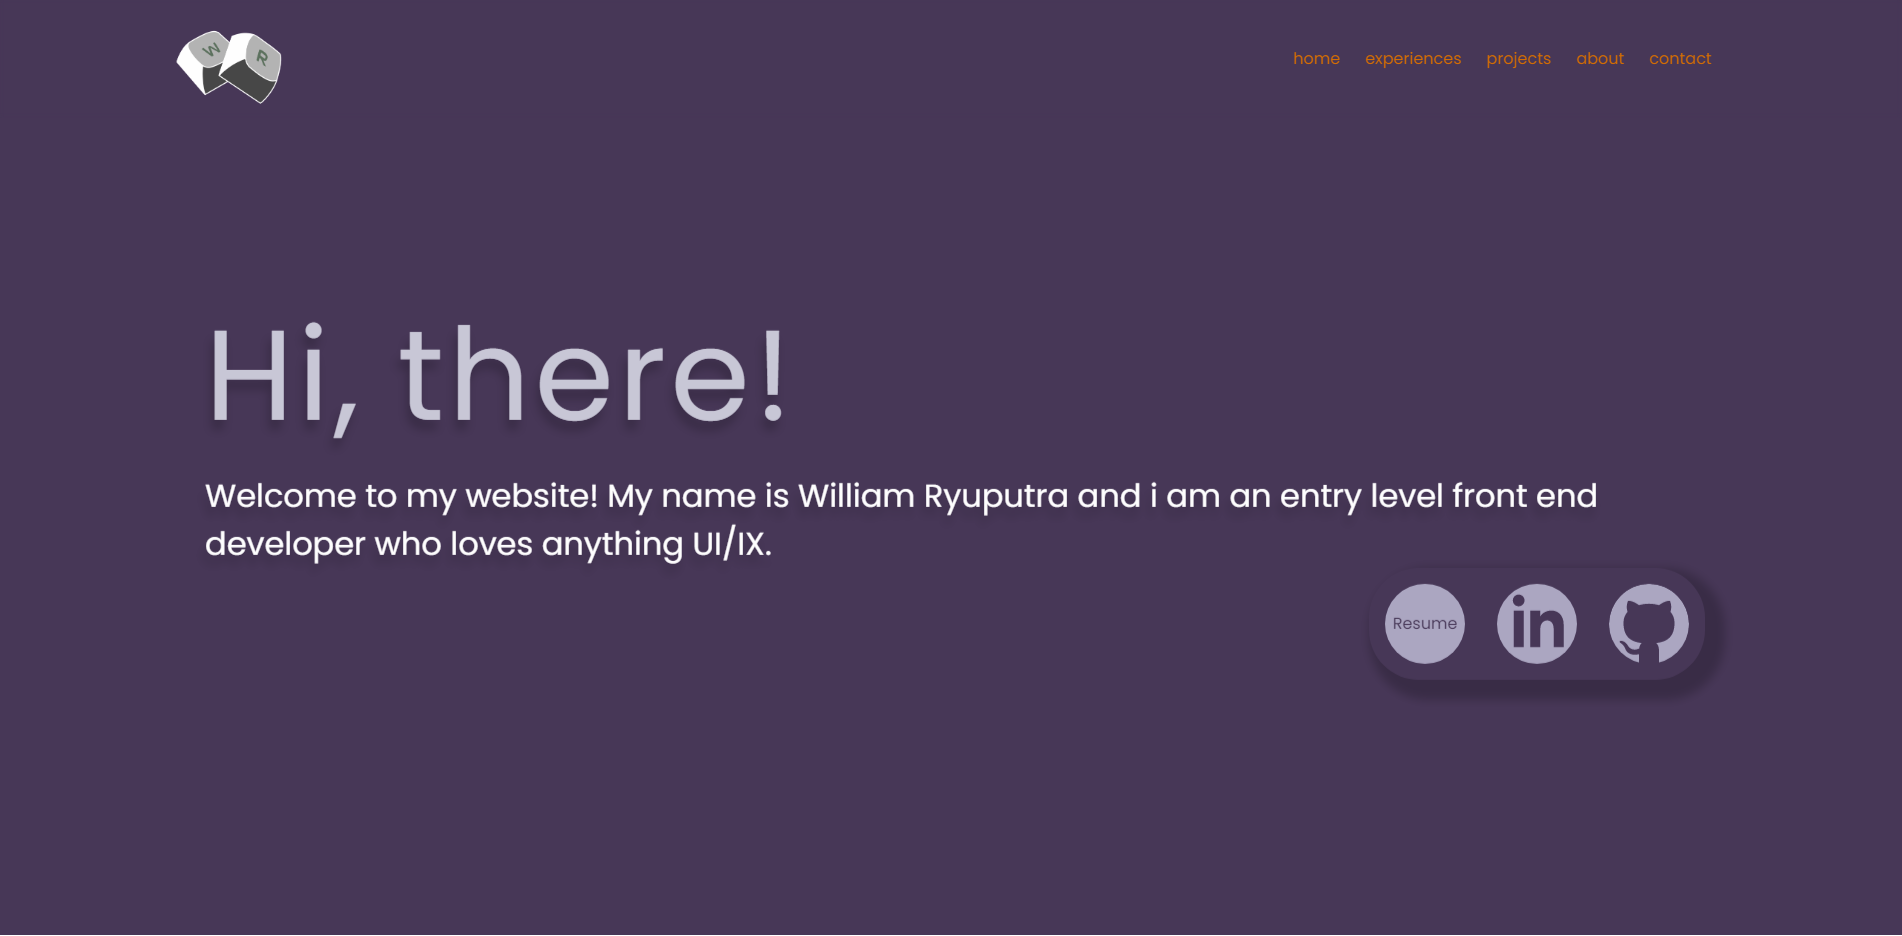
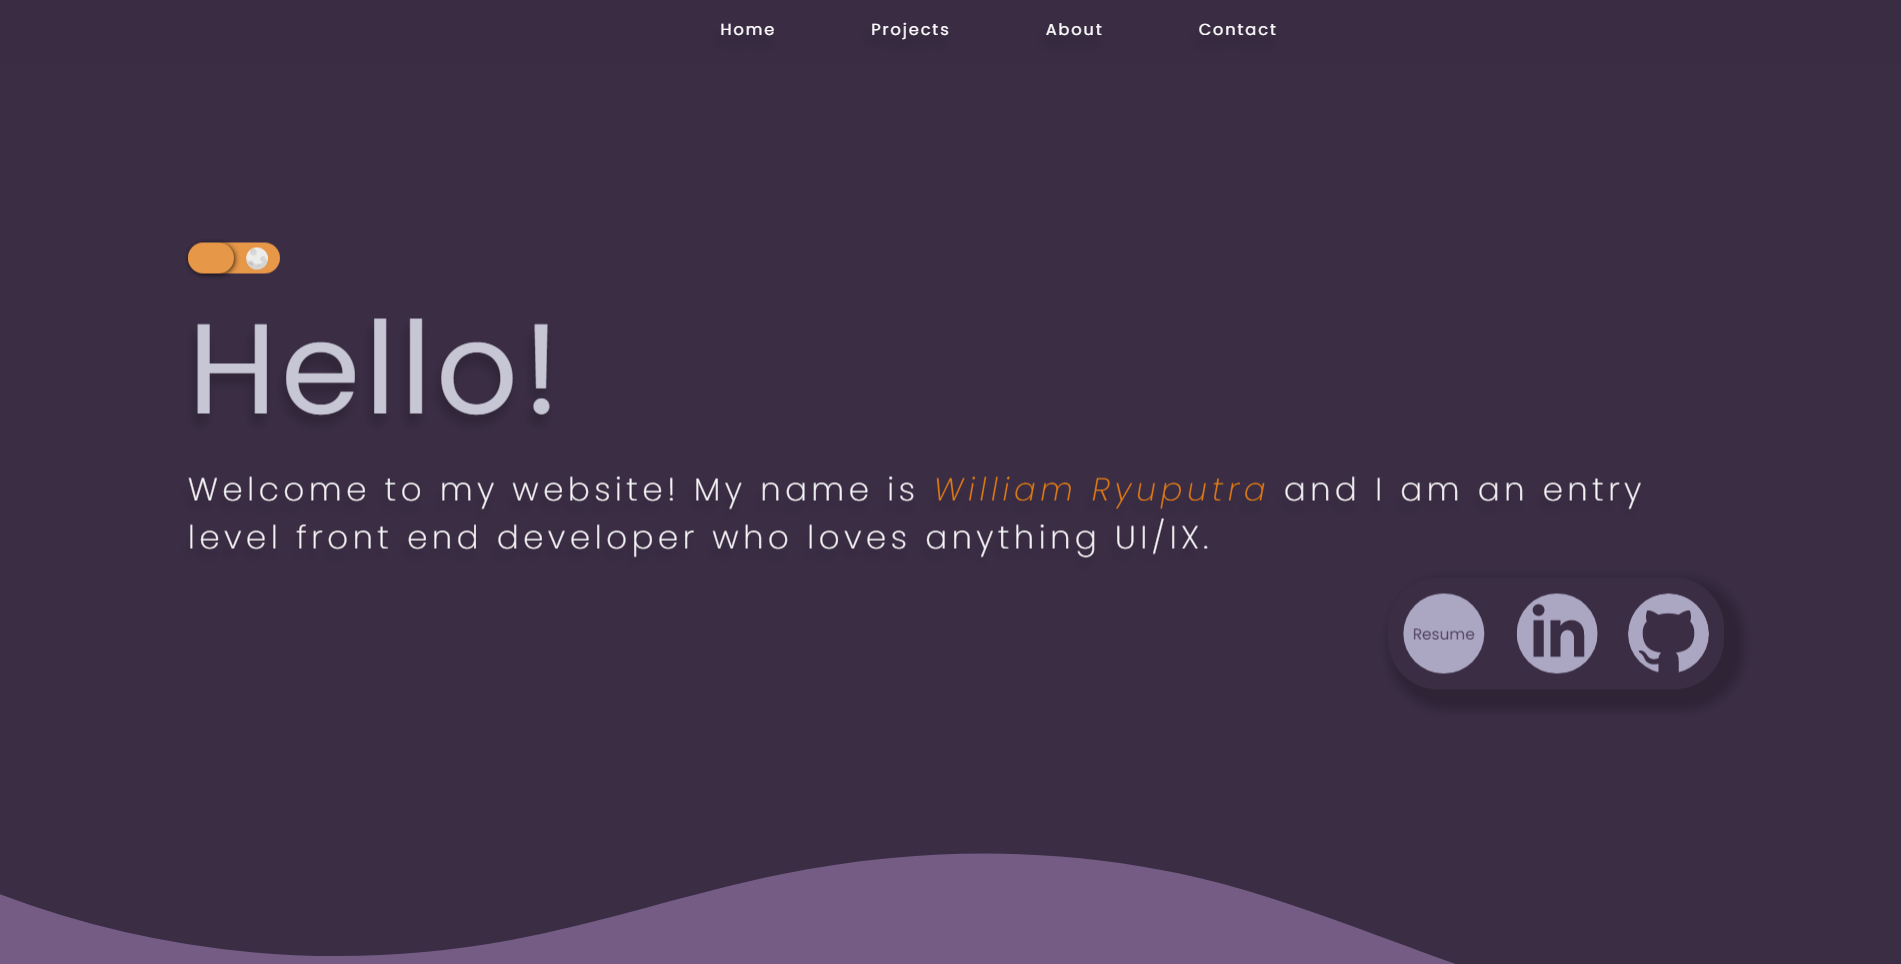
Modifies light mode on smaller devices

diff --git a/resources/styles.css b/resources/styles.css
@@ -62,27 +62,35 @@ body{
 }
 
 /* Light dark mode switch */
-.toggle,#circle{
+.toggle, #circle{
     border-radius: 50px;
 }
+
 .toggle{
+    /* border: 1px solid white; */
+    opacity: 0;
+    animation-delay:3s ;
     position: relative;
     display: flex;
-    justify-content: space-around;
     align-items: center;
-    border: px solid black;
-    width: 5vw;
-    height: 5vh;
+    justify-content: space-around;
+    width: 6%;
+    height: 4%;
     background-color:#e79849;
     transition: all .1s linear;
 }
+
+/* Sun and moon icons */
 .mode{
     /* border: 1px solid black; */
-    height: 50%;
+    height: 70%;
+   
 }
 
+/* Circle for toggle */
 #circle{
     /* border:1px solid yellow; */
+    cursor: pointer;
     background-color:#e79849;
     position:absolute;
     left: 0;
@@ -91,8 +99,6 @@ body{
     box-shadow: 1px 1px 5px 0px rgba(0,0,0,0.75);
     transition: all .1s linear;
 }
-
-
 
 /* navbar */
 .navbar{
@@ -153,8 +159,8 @@ body{
 }
 
 /* Animation for 'Hello!', description and navigation bar */
-.hello > span, .desc,.navbar{
-  opacity: 1;
+.hello > span, .desc,.navbar,.toggle{
+  opacity: 0;
   -webkit-animation-name:appears ;
   -moz-animation-name: appears;
   -o-animation-name: appears;
@@ -539,7 +545,7 @@ body{
     width: 13vw;
     background-size: cover;
     background-position:center;
-    background-image: url('https://media-exp1.licdn.com/dms/image/C4D03AQEGhZW3N92fWA/profile-displayphoto-shrink_800_800/0/1572886160038?e=2147483647&v=beta&t=hKWeq0Urjn1A7Tnz44uDimXzhWl3-bEM_tfqtEsQR0o');
+    background-image: url('../resources/images/selfie.jfif');
 }
   
 /* Container for music and skills */
@@ -807,7 +813,7 @@ button:active{
 /* footer */
 .footer{
     width: 100vw;
-    height: 8vh;
+    height: 10vh;
     background-color: rgb(57, 38, 73);
     display: flex;
     align-items: center;
@@ -1020,12 +1026,19 @@ button:active{
     }
 
     /* Home Page */
+    /* Toggle */
+    .toggle{
+        width: 15vw;
+        height: 7vw;    
+    }
+
     .home{
         /* border: 5px solid black; */
         justify-content: flex-end;
     }
 
     .intro{
+        /* border: 1px solid white; */
         height: 50vh;
         width: 75vw;
     }
@@ -1093,10 +1106,10 @@ button:active{
         position: absolute;
         right: 10%;
         top: -15%;
-        width: 60%;
-        height: 50%;
+        width: 40vw;
+        height: 25vh;
         box-shadow: 12px -10px 0px 0px rgba(235,128,21,1);
-        background-image: url('https://media-exp1.licdn.com/dms/image/C4D03AQEGhZW3N92fWA/profile-displayphoto-shrink_800_800/0/1572886160038?e=2147483647&v=beta&t=hKWeq0Urjn1A7Tnz44uDimXzhWl3-bEM_tfqtEsQR0o');
+        background-image: url('../resources/images/selfie.jfif');
         background-size: cover;
         background-position:center;
     }
@@ -1314,6 +1327,10 @@ button:active{
 
 /* Mobile Landscape */
 @media screen and (max-width:900px)  and (orientation:landscape){
+    .toggle{
+        width: 7vw;
+        height: 4vw;
+    }
     .prev, .next{
         display: none;
     }
@@ -1385,8 +1402,7 @@ button:active{
     }
 }
 
-/* New classes for later use */
-/* Bright mode */
+/* New classes for light mode */
 .white-background{
     background: white;
     transition: all .2s linear;
@@ -1396,34 +1412,35 @@ button:active{
     background-color: white;
 }
 
-span.name-color-change, .desc-mobile .name-color-change{
+span.name-light, .desc-mobile .name-light{
     color:#403f41;
     font-weight: 600;
 }
 
-.toggle-color-change{
+.toggle-light{
     background-color: #403f41;
 }
+
 #circle.toggle-right{
     transform: translateX(100%);
     background-color: black;
     transition: all .1s linear;
 }
-.colorchange, span.colorchange,svg.colorchange,.navbar > .colorchange{
+.font-light, span.font-light,svg.font-light,.navbar > .font-light{
     color:black;
 }
 
-.resume-color-change{
+.resume-light{
     background-color: black;
     color: white;
 }
 
 /* Project light mode */
-#projects.project-background-change, .about-black{
+#projects.projects-light, .contact-light{
     background-color: black;
 }
 
-.divider-one-black .shape-fill, .divider-two-black .shape-fill{
+.divider-one-light .shape-fill, .divider-two-light .shape-fill{
     fill:black;
 }
 
@@ -1432,7 +1449,7 @@ span.name-color-change, .desc-mobile .name-color-change{
 }
 
 /* About light mode */
-.about-gray{
+.about-light{
     background-color: #403f41;
     border-color: #403f41;
 }
@@ -1459,10 +1476,11 @@ span.name-color-change, .desc-mobile .name-color-change{
 }
 
 /* Mobile light */
-.intro-black{
+.intro-light{
     color: black;
 }
 
 .mobile-img-container-light{
     box-shadow: 12px -10px 0px 0px black;
 }
+

diff --git a/script.js b/script.js
@@ -28,7 +28,7 @@ function currentSlide(){
     slides[index].style.display = 'flex';
 }
 
-// Only calls function when its bigger than mobile
+// This function displays interactive slides, only for ipad portrait mode and desktop screens
     if(window.innerWidth > 850  || (window.innerWidth > 800 && window.innerHeight > window.innerWidth)){
         currentSlide();
     }
@@ -45,6 +45,7 @@ let description = document.getElementsByClassName("desc");
 let resume = document.getElementsByClassName("resume");
 let navigation = document.querySelectorAll(".navbar > a");
 let navigationBar = document.querySelector(".navbar");
+
 // Project
 let projectPage = document.getElementById("projects");
 let firstDivider = document.querySelector(".divider-one svg");
@@ -73,52 +74,51 @@ let introText = document.querySelectorAll(".desc-mobile > p");
 let nameSpan = document.querySelector(".desc-mobile span");
 let portraitShadow = document.querySelector(".mobile-pic-container");
 let textBoxes = document.querySelectorAll(".text-box");
+
+// Using classlist to toggle between classes
 ball.addEventListener("click", function(){
     // Moving ball to the right and changes color between modes
     ball.classList.toggle("toggle-right");
-    newToggle[0].classList.toggle("toggle-color-change");
+    newToggle[0].classList.toggle("toggle-light");
 
     // Home page
     background.classList.toggle("white-background");
-    description[0].classList.toggle("colorchange");
-    resume[0].classList.toggle("resume-color-change");
-    fullName.classList.toggle("name-color-change");
+    description[0].classList.toggle("font-light");
+    resume[0].classList.toggle("resume-light");
+    fullName.classList.toggle("name-light");
     navigationBar.classList.toggle("navigation-bar-light");
-   
+    // Changing "hello" spans color
     for(let i = 0; i<letter.length ; i++){
-        letter[i].classList.toggle("colorchange");
-        // console.log(letter[i]);
+        letter[i].classList.toggle("font-light");
     }
-
+    // Changing socials' svgs color
     for(let i = 0; i<social.length ; i++){
-        social[i].classList.toggle("colorchange");
-        // console.log(social[i]);
+        social[i].classList.toggle("font-light");
     }
-
+    // Changing navigation bar's color
     for(let i = 0; i<navigation.length ; i++){
-        navigation[i].classList.toggle("colorchange");
-        // console.log(social[i]);
+        navigation[i].classList.toggle("font-light");
     }
 
     // Projects page
-    projectPage.classList.toggle("project-background-change");
-    firstDivider.classList.toggle("divider-one-black");
-    secondDivider.classList.toggle("divider-two-black");
+    projectPage.classList.toggle("projects-light");
+    firstDivider.classList.toggle("divider-one-light");
+    secondDivider.classList.toggle("divider-two-light");
     for(i = 0 ; i<slide.length;i++){
         slide[i].classList.toggle("border-white");
         textBox[i].classList.toggle("border-white");
     }
 
     // About
-    bio.classList.toggle("about-gray");
-    about.classList.toggle("colorchange");
+    bio.classList.toggle("about-light");
+    about.classList.toggle("font-light");
     dividerThree.classList.toggle("divider-contact-white");
     for(i = 0 ; i<misc.length;i++){
-        misc[i].classList.toggle("about-gray");
+        misc[i].classList.toggle("about-light");
     }
 
     // Contact
-    contact.classList.toggle("about-black");
+    contact.classList.toggle("contact-light");
     textArea[0].classList.toggle("input-light");
     button[0].classList.toggle("button-light");
     for(i = 0 ; i<lineDeco.length;i++){
@@ -132,16 +132,14 @@ ball.addEventListener("click", function(){
     footer.classList.toggle("footer-light");
 
     // Mobile
-    nameSpan.classList.toggle("name-color-change");
+    nameSpan.classList.toggle("name-light");
     portraitShadow.classList.toggle("mobile-img-container-light");
     for(i = 0 ; i<introText.length;i++){
-        introText[i].classList.toggle("intro-black");
+        introText[i].classList.toggle("intro-light");
     }
     for(i = 0 ; i<textBoxes.length;i++){
         textBoxes[i].classList.toggle("footer-light");
     }
-
-    
 });
 
     

diff --git a/index.html b/index.html
@@ -47,7 +47,7 @@
                                     <path d="M56.1667 15.6667L50 0L43.8333 15.6667C45.8333 15.3333 48 15 50 15C52 15 54.1667 15.1667 56.1667 15.6667Z" fill="#FFCE31"/>
                                     <path d="M43.8333 84.3334L50 100L56.1667 84.3334C54.1667 84.8334 52.1667 85 50 85C47.8333 85 45.8333 84.8334 43.8333 84.3334Z" fill="#FFCE31"/>
                                     <path d="M50 81.6667C67.489 81.6667 81.6667 67.4891 81.6667 50C81.6667 32.511 67.489 18.3334 50 18.3334C32.511 18.3334 18.3333 32.511 18.3333 50C18.3333 67.4891 32.511 81.6667 50 81.6667Z" fill="#FFCE31"/>
-                                    </svg>
+                                </svg>
                             </div>
 
                             <div class="mode moon">
@@ -65,7 +65,7 @@
                                     <path opacity="0.06" d="M22.0348 63.769C25.641 61.6718 30.0836 62.0413 33.3346 64.3234C30.2695 59.951 24.1848 58.5238 19.5076 61.2438C14.5608 64.1205 12.9778 70.5951 15.8354 75.5749C16.6244 76.9498 17.669 78.0635 18.8707 78.8967C18.692 78.6413 18.5215 78.3769 18.3625 78.1C15.5049 73.1203 17.0879 66.6457 22.0348 63.769Z" fill="#040000"/>
                                     <path opacity="0.06" d="M68.301 55.4646C69.0285 48.2587 75.3853 42.8211 82.5433 43.5537C84.9295 43.7979 87.1166 44.6988 88.9463 46.0576C86.7965 43.2 83.5373 41.1953 79.7875 40.8115C72.6295 40.0791 66.2726 45.5165 65.5451 52.7224C65.0637 57.4898 67.1693 61.8181 70.722 64.4141C68.9017 61.9465 67.9627 58.814 68.301 55.4646Z" fill="#040000"/>
                                     <path opacity="0.1" d="M49.7676 75.0505C29.1898 75.0505 11.0139 64.8138 0.0176017 49.165C-0.510328 68.7717 10.8676 87.3745 30.0832 95.7127C55.2342 106.626 84.7019 96.0143 95.5431 70.6952C98.525 63.7312 99.773 56.3919 99.5056 49.1821C88.5082 64.8211 70.3379 75.0505 49.7676 75.0505Z" fill="#040000"/>
-                                    </svg>
+                                </svg>
                             </div>
 
                             <div id="circle"></div>
